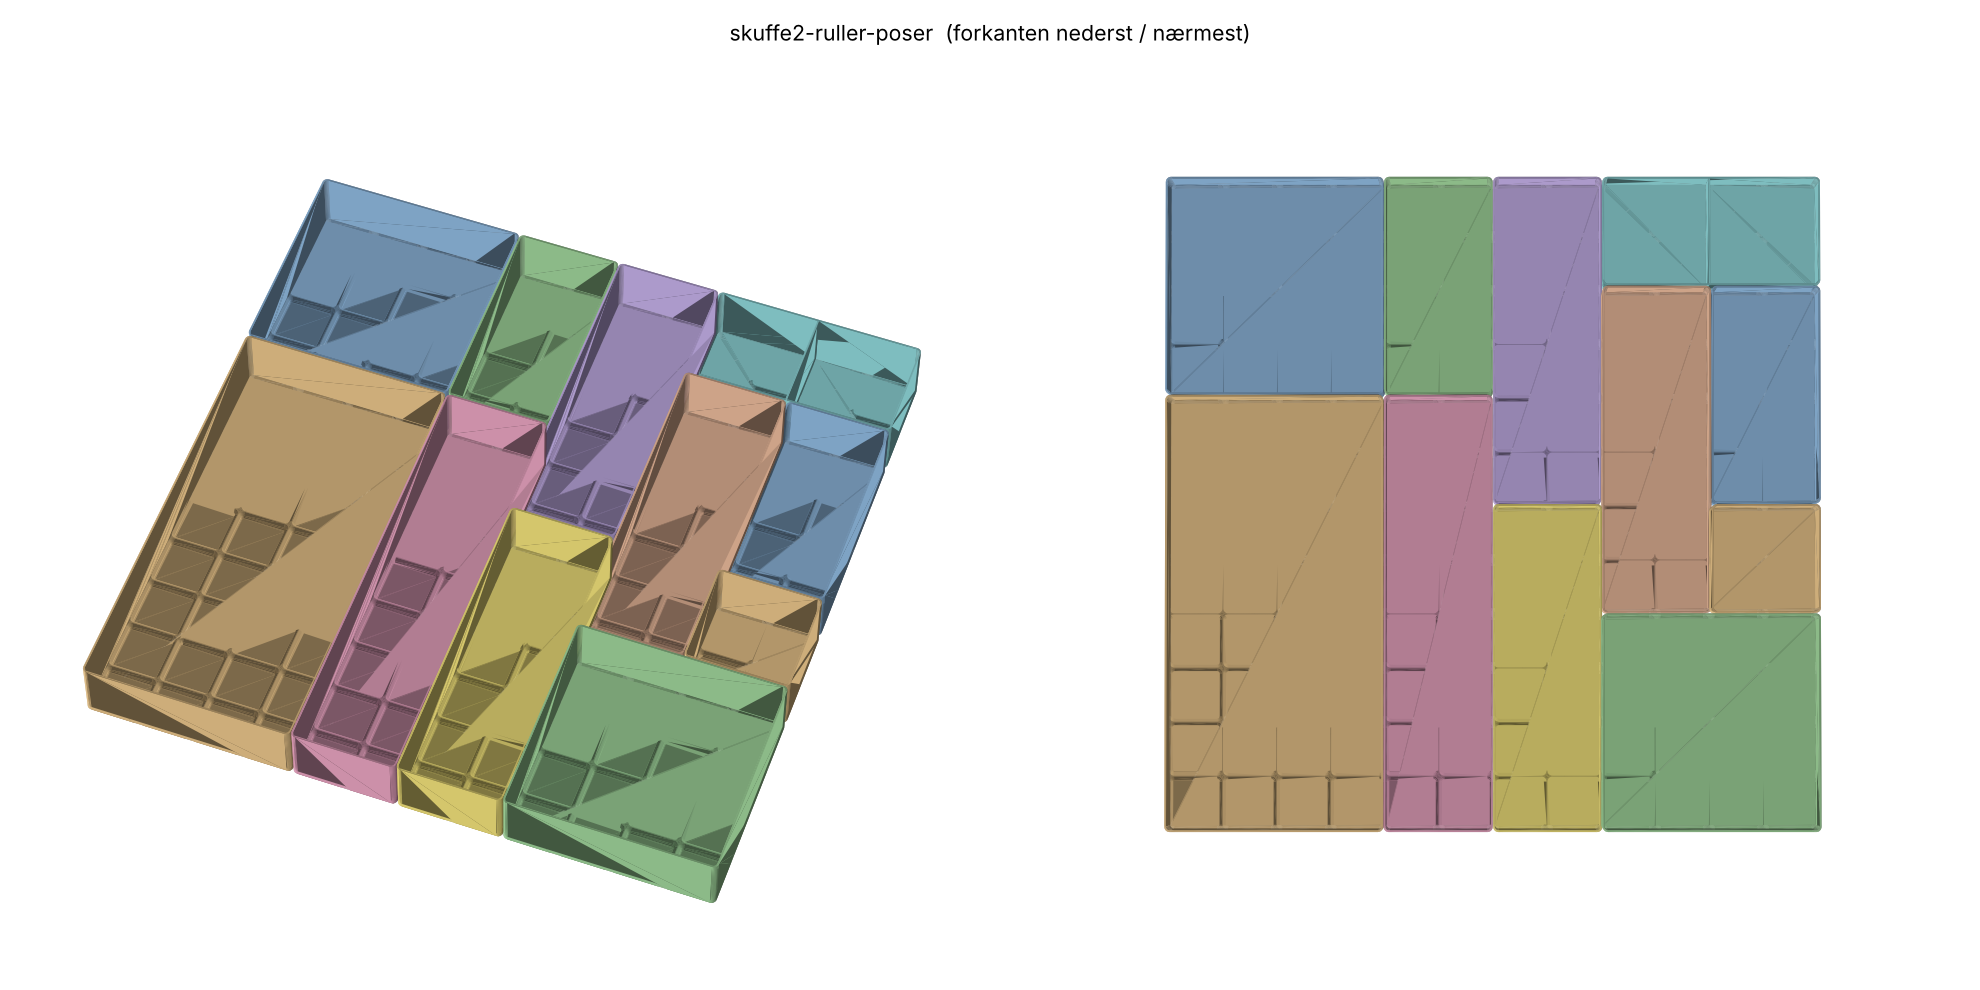
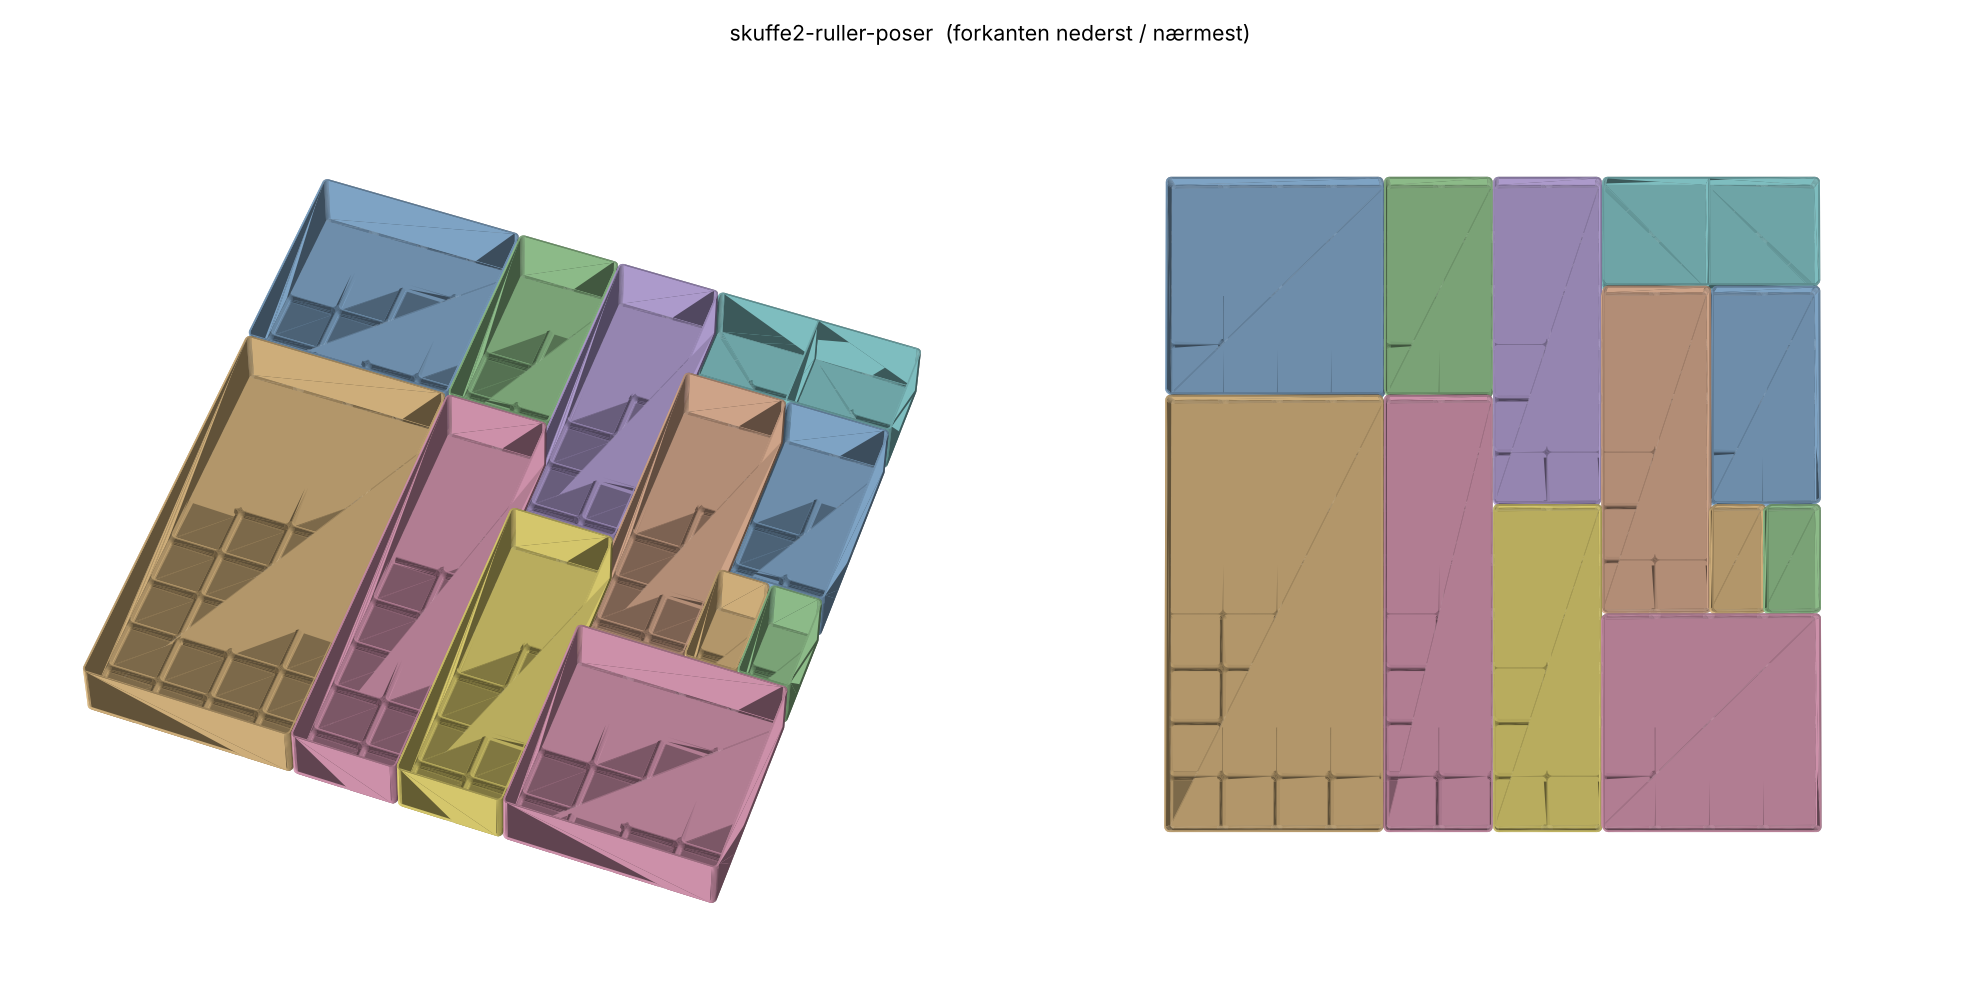
Elastikker i 1x2, frit 1x2-rum ved siden af
Claude-Session: https://claude.ai/code/session_01RWJ1F52K7vUn6gmBByxogF

Changed region(s): [[0.2465, 0.5758, 0.4313, 0.9091], [0.801, 0.4848, 0.9242, 0.8485]]

diff --git a/gridfinity-koekken/plan.py b/gridfinity-koekken/plan.py
@@ -77,8 +77,10 @@ RULLER = [
             label="ISTAD 19 cm på langs (80 x 248 mm), ender bag papiret"),
     BinSpec("poseklemmer", 2, 4, H, pos=(10, 2),
             label="Alle poseklemmer (13,5 / 10,5 / 5 cm) i ét rum 80 x 164 mm, fuld højde"),
-    BinSpec("elastikker", 2, 2, H, pos=(10, 6),
-            label="Elastikker, løse (80 x 80 mm)"),
+    BinSpec("elastikker", 1, 2, H, pos=(10, 6),
+            label="Elastikker, løse (37 x 80 mm)"),
+    BinSpec("frit-1x2", 1, 2, H, pos=(11, 6),
+            label="Frit smalt rum 37 x 80 mm (fx tændstikæske, snor, blyant)"),
     BinSpec("mellemlaegspapir", 4, 4, H, pos=(8, 8),
             label="FORREST: mellemlægspapir 15 x 12,5 cm (164 x 164 mm), plads til tændstikker ved siden af"),
 ]

diff --git a/gridfinity-koekken/README.md b/gridfinity-koekken/README.md
@@ -13,7 +13,7 @@ STL-filerne laves igen på få sekunder.
 
 ## Hvad er lavet
 
-* **`stl/`** – printklare STL-filer (7 dele til bestikskuffen inkl. den løse teske-indsats, 13 til rulle/pose-skuffen; 20 i alt). Se `printliste.md`.
+* **`stl/`** – printklare STL-filer (7 dele til bestikskuffen inkl. den løse teske-indsats, 14 til rulle/pose-skuffen; 21 i alt). Se `printliste.md`.
 * **`plan.py`** – selve planen: hvilke bakker, hvor store, hvor de står, skillevægge, knivbakke-parametre.
 * **`gridfinity.py`** – lille Gridfinity-bibliotek (fodprofil 0,8 / 1,8 / 2,15 mm, 42 mm pitch, 4 mm hjørner).
 * **`generate.py`** – laver STL, `layout.svg` og `printliste.md`. **`preview.py`** laver PNG-billederne.
@@ -70,7 +70,7 @@ alle rum er i fuld højde, og alt der kan deles med en skillevæg i stedet for t
 
 ## Skuffe 2 – ruller, poser og småting
 
-Elleve bakker, alle 8 enheder høje. Det daglige ligger forrest eller i kolonner på langs, så æskens ende sidder
+Tolv bakker, alle 8 enheder høje. Det daglige ligger forrest eller i kolonner på langs, så æskens ende sidder
 ved forkanten og kan gribes direkte. Det sjældne ligger bagerst.
 
 * **Ruller 4×8** (164 × 332 mm, to halvdele) langs venstre side: film, sølvpapir, cellofan og fryseposer på rulle
@@ -80,7 +80,7 @@ ved forkanten og kan gribes direkte. Det sjældne ligger bagerst.
   19 cm i 2×6 (248 mm). De to store ender ved forkanten, den lille lige bag papiret.
 * **Mellemlægspapir 4×4** forrest til højre (164 × 164 mm til æsken på 15 × 12,5 cm, plus tændstikker ved siden af).
 * **Poseklemmer 2×4**: alle klemmer (13,5 / 10,5 / 5 cm) i ét rum på 80 × 164 mm i fuld højde.
-  **Elastikker 2×2** lige foran, bag papiret.
+  **Elastikker 1×2** (37 × 80 mm) lige foran, bag papiret, med et frit 1×2-rum ved siden af.
 * **Bagerst:** Pynt-ringe 4×4 (ringe til glas, fødselsdagsflag, parasoller), Termometre 2×4 (plus snor),
   Lange ting 2×6 (trægafler, papirsugerør, sushi-måtte) og Småting 4×2 med skillevæg (tandstikker og barberblade
   i det ene rum, tændstikker og fødselsdagslys i det andet).

diff --git a/gridfinity-koekken/printliste.md b/gridfinity-koekken/printliste.md
@@ -29,7 +29,8 @@ Genereret med `MAX_PRINT_UNITS = 6` (længste stykke 251.5 mm).
 | `skuffe2-ruller-poser__smaating.stl` | 4×2×8 | 167.5 × 83.5 × 56.0 | 165 × 81 × 50 (hel bakke) | 108.4 cm³ | 134 g | Bagerst, to rum 80 x 80: tandstikker + barberblade · tændstikker + fødselsdagslys |
 | `skuffe2-ruller-poser__istad-smaa.stl` | 2×6×8 | 83.5 × 251.5 × 56.0 | 81 × 249 × 50 (hel bakke) | 150.1 cm³ | 186 g | ISTAD 19 cm på langs (80 x 248 mm), ender bag papiret |
 | `skuffe2-ruller-poser__poseklemmer.stl` | 2×4×8 | 83.5 × 167.5 × 56.0 | 81 × 165 × 50 (hel bakke) | 103.3 cm³ | 128 g | Alle poseklemmer (13,5 / 10,5 / 5 cm) i ét rum 80 x 164 mm, fuld højde |
-| `skuffe2-ruller-poser__elastikker.stl` | 2×2×8 | 83.5 × 83.5 × 56.0 | 81 × 81 × 50 (hel bakke) | 56.5 cm³ | 70 g | Elastikker, løse (80 x 80 mm) |
+| `skuffe2-ruller-poser__elastikker.stl` | 1×2×8 | 41.5 × 83.5 × 56.0 | 39 × 81 × 50 (hel bakke) | 33.1 cm³ | 41 g | Elastikker, løse (37 x 80 mm) |
+| `skuffe2-ruller-poser__frit-1x2.stl` | 1×2×8 | 41.5 × 83.5 × 56.0 | 39 × 81 × 50 (hel bakke) | 33.1 cm³ | 41 g | Frit smalt rum 37 x 80 mm (fx tændstikæske, snor, blyant) |
 | `skuffe2-ruller-poser__mellemlaegspapir.stl` | 4×4×8 | 167.5 × 167.5 × 56.0 | 165 × 165 × 50 (hel bakke) | 186.4 cm³ | 231 g | FORREST: mellemlægspapir 15 x 12,5 cm (164 x 164 mm), plads til tændstikker ved siden af |
 
 ## loese-indsatser
@@ -38,4 +39,4 @@ Genereret med `MAX_PRINT_UNITS = 6` (længste stykke 251.5 mm).
 |---|---|---|---|---|---|---|
 | `indsats__teske-indsats.stl` | – | 60.5 × 248.2 × 34.0 | – | 43.7 cm³ | 54 g | Øverste lag i rum 4 i bestik-lang: lange teskeer. Hviler på lister 22 mm over bunden, spisepinde nedenunder |
 
-**I alt ca. 4463 g PLA** (20 dele, massivt regnet; reelt forbrug er typisk 10-20 % mindre afhængigt af bund-infill).
+**I alt ca. 4475 g PLA** (21 dele, massivt regnet; reelt forbrug er typisk 10-20 % mindre afhængigt af bund-infill).
